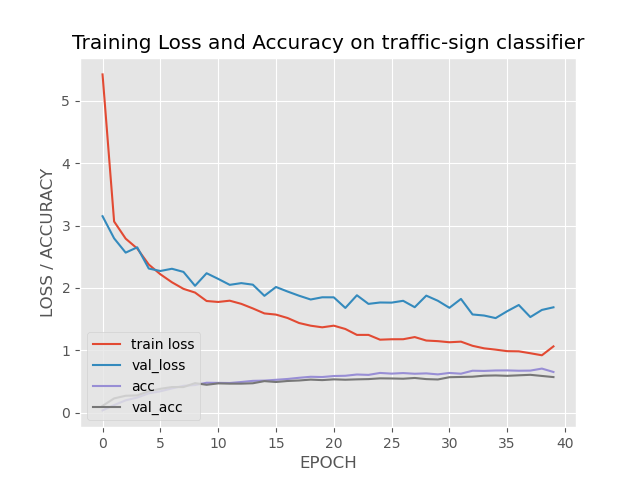
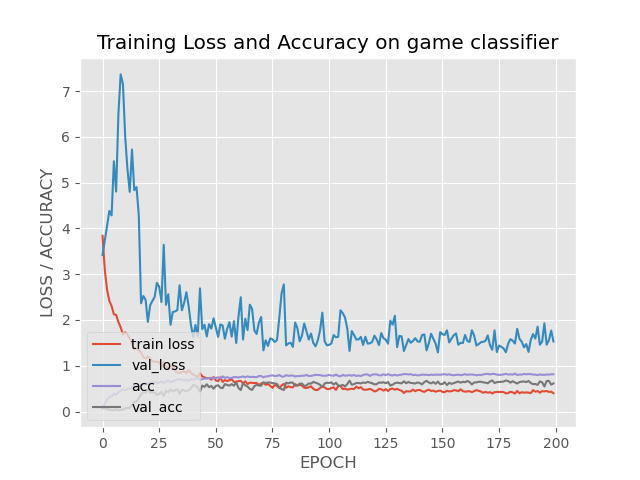
master

diff --git a/train.py b/train.py
@@ -1,4 +1,4 @@
-from net import LeNet
+from net import LeNet, GoogleNet
 import sys
 import os
 import cv2
@@ -17,19 +17,19 @@ from sklearn import preprocessing
 matplotlib.use("Agg")
 
 # import the necessary packages
-sys.path.append('..') 
+sys.path.append('..')
 
-EPOCHS = 40
+EPOCHS = 200
 INIT_LR = 1e-3
 BS = 32
 CLASS_NUM = 33
-norm_size = 350
+norm_size = 128
 
 # 路径保存
-train_dataset_path="./train"
-test_dataset_path="./test"
-model_path="./model"
-plot_path="./plot"
+train_dataset_path = "./train"
+test_dataset_path = "./test"
+model_path = "./model"
+plot_path = "./plot"
 
 # def args_parse():
 #     ap = argparse.ArgumentParser()
@@ -44,17 +44,19 @@ plot_path="./plot"
 #     args = vars(ap.parse_args())
 #     return args
 
-#读取图片，转化为数据集、打标签
+# 读取图片，转化为数据集、打标签
+
+
 def load__data(path):
     print("loading images........")
     data = []
     labels = []
     imagePaths = sorted(list(paths.list_images(path)))
-    #对数据集随机排序
+    # 对数据集随机排序
     random.seed(42)
     random.shuffle(imagePaths)
 
-    #处理数据集 打标签
+    # 处理数据集 打标签
     for imagePath in imagePaths:
         image = cv2.imread(imagePath)
         image = cv2.resize(image, (norm_size, norm_size))
@@ -63,26 +65,29 @@ def load__data(path):
         label = imagePath.split(os.sep)[-2]
         labels.append(label)
 
-    #对汉字标签编码
+    # 对汉字标签编码
     data = np.array(data, dtype="float")/255.0
-    le=preprocessing.LabelEncoder()
-    le=le.fit(os.listdir("./train"))
-    labels=le.transform(labels)
+    le = preprocessing.LabelEncoder()
+    le = le.fit(os.listdir("./train"))
+    labels = le.transform(labels)
     labels = to_categorical(labels, num_classes=CLASS_NUM)
-    return data,labels
+    return data, labels
 
-#训练模型
+# 训练模型
+
+
 def train(aug, trainX, trainY, testX, testY):
-    #创建模型
+    # 创建模型
     print("compileing model\n---------------------")
-    model = LeNet.build(width=norm_size, height=norm_size,
-                        depth=3, classes=CLASS_NUM)
+    # model = LeNet.build(width=norm_size, height=norm_size,
+    #                      depth=3, classes=CLASS_NUM)
+    model = GoogleNet.build(width=norm_size, height=norm_size, depth=3, classes=CLASS_NUM)
 
     opt = Adam(lr=INIT_LR, decay=INIT_LR/EPOCHS)
     model.compile(loss="categorical_crossentropy",
-                    optimizer=opt, metrics=["accuracy"])
-    
-    #训练模型
+                  optimizer=opt, metrics=["accuracy"])
+
+    # 训练模型
     print("training network\n----------------------")
     H = model.fit(aug.flow(trainX, trainY, batch_size=BS), validation_data=(
         testX, testY), steps_per_epoch=len(trainX)//BS, epochs=EPOCHS, verbose=1)
@@ -90,7 +95,7 @@ def train(aug, trainX, trainY, testX, testY):
     print("serializing network\n---------------------")
     model.save("./steam.model")
 
-    #输出损失函数图
+    # 输出损失函数图
     plt.style.use("ggplot")
     plt.figure()
     N = EPOCHS
@@ -98,15 +103,11 @@ def train(aug, trainX, trainY, testX, testY):
     plt.plot(np.arange(0, N), H.history["val_loss"], label="val_loss")
     plt.plot(np.arange(0, N), H.history["accuracy"], label="acc")
     plt.plot(np.arange(0, N), H.history["val_accuracy"], label="val_acc")
-    plt.title("Training Loss and Accuracy on traffic-sign classifier")
+    plt.title("Training Loss and Accuracy on game classifier")
     plt.xlabel("EPOCH")
     plt.ylabel("LOSS / ACCURACY")
     plt.legend(loc="lower left")
     plt.savefig("./plot/learn.png")
-
-
-
-
 
 
 if __name__ == "__main__":
@@ -118,6 +119,6 @@ if __name__ == "__main__":
 
     aug = ImageDataGenerator(rotation_range=30, width_shift_range=0.1, height_shift_range=0.1,
                              shear_range=0.2, zoom_range=0.2, horizontal_flip=True, fill_mode="nearest")
-    
-    train(aug,trainX,trainY,testX,testY)
+
+    train(aug, trainX, trainY, testX, testY)
     print('resloved')

diff --git a/net.py b/net.py
@@ -1,20 +1,26 @@
 from keras.models import Sequential
+from keras.layers.normalization import BatchNormalization
 from keras.layers.convolutional import Conv2D
 from keras.layers.convolutional import MaxPooling2D
+from keras.layers.convolutional import AveragePooling2D
 from keras.layers.core import Activation
 from keras.layers.core import Flatten
 from keras.layers.core import Dense
+from keras.layers.core import Dropout
+from keras.models import Model
+from keras.layers import Input
+from keras.layers import concatenate
 from keras import backend as K
 
-#定义网络结构
+# 定义网络结构
 
 
-#LeNet
+# LeNet
 class LeNet:
     @staticmethod
     def build(width, height, depth, classes):
         model = Sequential()
-        inputShape = (height, width,depth)
+        inputShape = (height, width, depth)
         if K.image_data_format() == "channels_first":
             inputShape = (depth, height, width)
         model.add(Conv2D(20, (5, 5), padding="same", input_shape=inputShape))
@@ -30,9 +36,64 @@ class LeNet:
 
         return model
 
-#GoogleNet
+# GoogleNet
+
+
 class GoogleNet:
     @staticmethod
-    def build():
-        model=Sequential()
+    def conv_module(x, K, kX, kY, stride, chanDim, padding="same"):
+        x = Conv2D(K, (kX, kY), strides=stride, padding=padding)(x)
+        x = BatchNormalization(axis=chanDim)(x)
+        x = Activation("relu")(x)
+        return x
+
+    @staticmethod
+    def inception_module(x, numK1_1, numK3_3, chanDim):
+        conv1_1 = GoogleNet.conv_module(x, numK1_1, 1, 1, (1, 1), chanDim)
+        conv3_3 = GoogleNet.conv_module(x, numK3_3, 3, 3, (1, 1), chanDim)
+        x = concatenate([conv1_1, conv3_3], axis=chanDim)
+        return x
+
+    @staticmethod
+    def downsample_module(x, K, chanDim):
+        conv3_3 = GoogleNet.conv_module(
+            x, K, 3, 3, (2, 2), chanDim, padding='valid')
+        pool = MaxPooling2D((3, 3), strides=(2, 2))(x)
+        x = concatenate([conv3_3, pool], axis=chanDim)
+        return x
+
+    @staticmethod
+    def build(width, height, depth, classes):
+        inputShape = (height, width, depth)
+        chanDim = -1
+        if K.image_data_format()=="channels_first":
+            inputShape=(depth,width,depth)
+            chanDim=-1
+        
+        inputs=Input(shape=inputShape)
+
+        x=GoogleNet.conv_module(inputs,96,3,3,(1,1),chanDim)
+
+        x=GoogleNet.inception_module(x,32,32,chanDim)
+        x=GoogleNet.inception_module(x,32,48,chanDim)
+        x=GoogleNet.downsample_module(x,80,chanDim)
+
+        x=GoogleNet.inception_module(x,112,48,chanDim)
+        x=GoogleNet.inception_module(x,96,64,chanDim)
+        x=GoogleNet.inception_module(x,80,80,chanDim)
+        x=GoogleNet.inception_module(x,48,96,chanDim)
+        x=GoogleNet.downsample_module(x,96,chanDim)
+
+        x=GoogleNet.inception_module(x,176,160,chanDim)
+        x=GoogleNet.inception_module(x,176,160,chanDim)
+        x=AveragePooling2D((7,7))(x)
+        x=Dropout(0.5)(x)
+
+        x=Flatten()(x)
+        x=Dense(classes)(x)
+        x=Activation("softmax")(x)
+
+        model=Model(inputs,x,name="googlenet")
+
+        
         return model

diff --git a/predict.py b/predict.py
@@ -6,9 +6,10 @@ import argparse
 import imutils
 import cv2
 import os
+os.environ['CUDA_VISIBLE_DEVICES'] = '/gpu:0'
 
 
-norm_size = 350
+norm_size = 128
 
 
 def args_parse():
